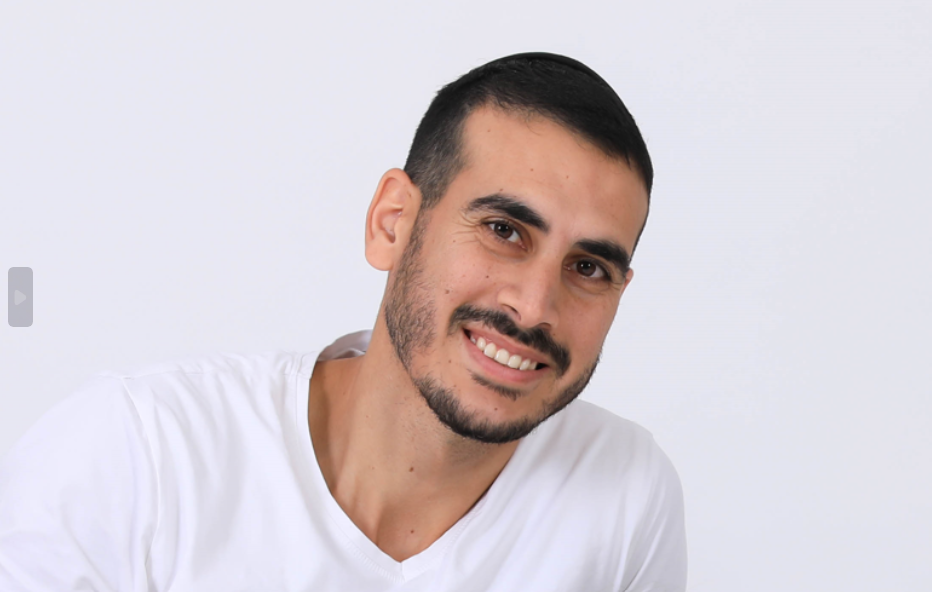
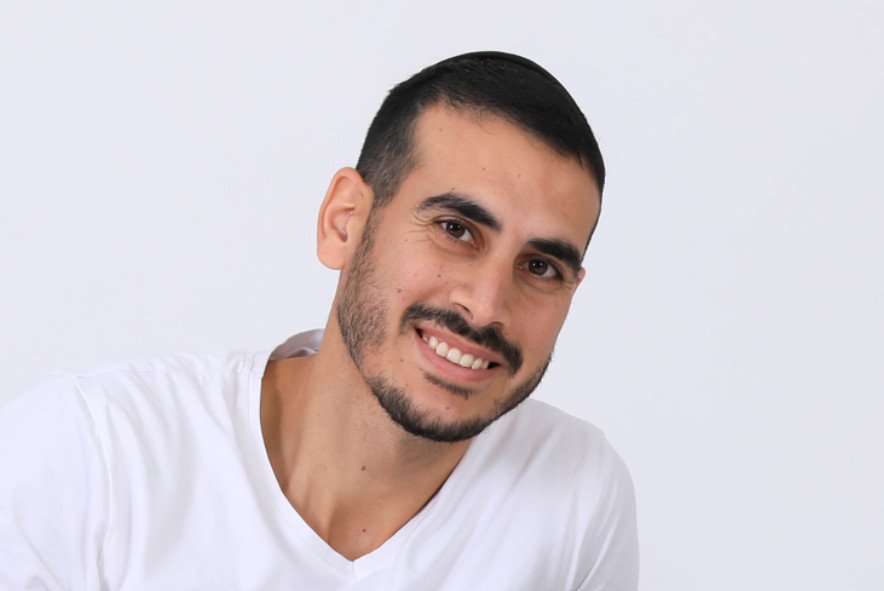
go

diff --git a/components/Card3D.tsx b/components/Card3D.tsx
@@ -1,57 +1,39 @@
-// Card3D.js
 "use client";
 
 import Image from "next/image";
 import React from "react";
-import Link from "next/link";
 import { CardBody, CardContainer, CardItem } from "./ui/CardContainer";
-import orelImg from "../public/orel_linkedin.png";
+import orelImg from "../public/Remove-bg.ai_1729200127862.png";
 
 export function Card3D() {
   return (
-    <CardContainer className="inter-var">
-      <CardBody className="bg-gray-50 relative group/card  dark:hover:shadow-2xl dark:hover:shadow-emerald-500/[0.1] dark:bg-black dark:border-white/[0.2] border-black/[0.1] w-auto sm:w-[30rem] h-auto rounded-xl p-6 border  ">
-        <CardItem
-          translateZ="50"
-          className="text-xl font-bold text-neutral-600 dark:text-white"
-        >
-          Orel Bukris Portfolio Frontend
-        </CardItem>
-        <CardItem
-          as="p"
-          translateZ="60"
-          className="text-neutral-500 text-sm max-w-sm mt-2 dark:text-neutral-300"
-        >
-          Hover over this card to unleash the power of CSS perspective
-        </CardItem>
-        <CardItem translateZ="100" className="w-full mt-4">
-          <Image
-            src={orelImg}
-            height={1000}
-            width={1000}
-            className="h-60 w-full object-cover rounded-xl group-hover/card:shadow-xl"
-            alt="Orel Bukris LinkedIn Profile"
-          />
-        </CardItem>
-        <div className="flex justify-between items-center mt-20">
+    <div className="flex justify-center items-center h-screen">
+      <CardContainer className="inter-var">
+        <CardBody className="relative group/card bg-transparent dark:bg-transparent border-none w-auto sm:w-[30rem] h-auto rounded-xl p-6 shadow-lg dark:shadow-none shadow-none flex flex-col items-center justify-center">
           <CardItem
-            translateZ={20}
-            as={Link}
-            href="https://twitter.com/mannupaaji"
-            target="__blank"
-            className="px-4 py-2 rounded-xl text-xs font-normal dark:text-white"
+            translateZ="50"
+            className="text-xl font-bold text-white text-center"
           >
-            Try now →
+            Orel Bukris Portfolio Frontend
           </CardItem>
           <CardItem
-            translateZ={20}
-            as="button"
-            className="px-4 py-2 rounded-xl bg-black dark:bg-white dark:text-black text-white text-xs font-bold"
+            as="p"
+            translateZ="60"
+            className="text-neutral-300 text-sm max-w-sm mt-2 text-center"
           >
-            Sign up
+            Hover over this card to unleash the power of CSS perspective
           </CardItem>
-        </div>
-      </CardBody>
-    </CardContainer>
+          <CardItem translateZ="100" className="w-full mt-4 flex justify-center">
+            <Image
+              src={orelImg}
+              height={1000}
+              width={1000}
+              className="h-60 w-full object-cover rounded-xl group-hover/card:shadow-xl border-none"
+              alt="Orel Bukris LinkedIn Profile"
+            />
+          </CardItem>
+        </CardBody>
+      </CardContainer>
+    </div>
   );
 }
